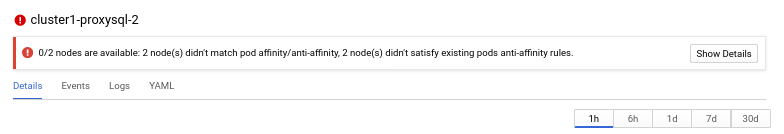
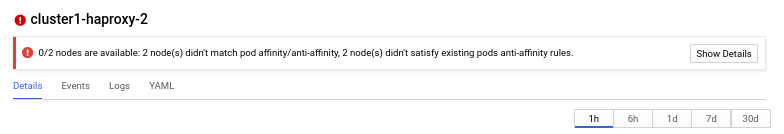
change proxysql to haproxy

Changed region(s): [[0.0306, 0.0896, 0.1837, 0.209]]

diff --git a/source/gke.rst b/source/gke.rst
@@ -139,9 +139,9 @@ It may take ten minutes to get the cluster started. You  can verify its creation
 
    $ kubectl get pods
    NAME                                               READY     STATUS    RESTARTS   AGE
-   cluster1-proxysql-0                                3/3     Running   0          102s
-   cluster1-proxysql-1                                3/3     Running   0          77s
-   cluster1-proxysql-2                                3/3     Running   0          42s
+   cluster1-haproxy-0                                 3/3     Running   0          102s
+   cluster1-haproxy-1                                 3/3     Running   0          77s
+   cluster1-haproxy-2                                 3/3     Running   0          42s
    cluster1-pxc-0                                     1/1     Running   0          103s
    cluster1-pxc-1                                     0/1     Running   0          56s
    percona-xtradb-cluster-operator-7455888c9d-wpn9j   1/1     Running   0          4m3s
@@ -168,7 +168,7 @@ Now run ``mysql`` tool in the percona-client command shell using the password ob
 
 .. code:: bash
 
-   mysql -h cluster1-proxysql -uroot -proot_password
+   mysql -h cluster1-haproxy -uroot -proot_password
 
 This command will connect you to the MySQL monitor.
 
@@ -176,8 +176,8 @@ This command will connect you to the MySQL monitor.
 
    mysql: [Warning] Using a password on the command line interface can be insecure.
    Welcome to the MySQL monitor.  Commands end with ; or \g.
-   Your MySQL connection id is 119
-   Server version: 8.0.19 (ProxySQL)
+   Your MySQL connection id is 1976
+   Server version: 8.0.19-10 Percona XtraDB Cluster (GPL), Release rel10, Revision 727f180, WSREP version 26.4.3
 
    Copyright (c) 2009-2020 Percona LLC and/or its affiliates
    Copyright (c) 2000, 2020, Oracle and/or its affiliates. All rights reserved.
@@ -212,7 +212,7 @@ If ``kubectl get pods`` command had shown some errors, you can examine the probl
 
 .. code:: bash
 
-   kubectl describe pod cluster1-proxysql-2
+   kubectl describe pod cluster1-haproxy-2
 
 Review the detailed information for ``Warning`` statements and then correct the configuration. An example of a warning is as follows:
 
